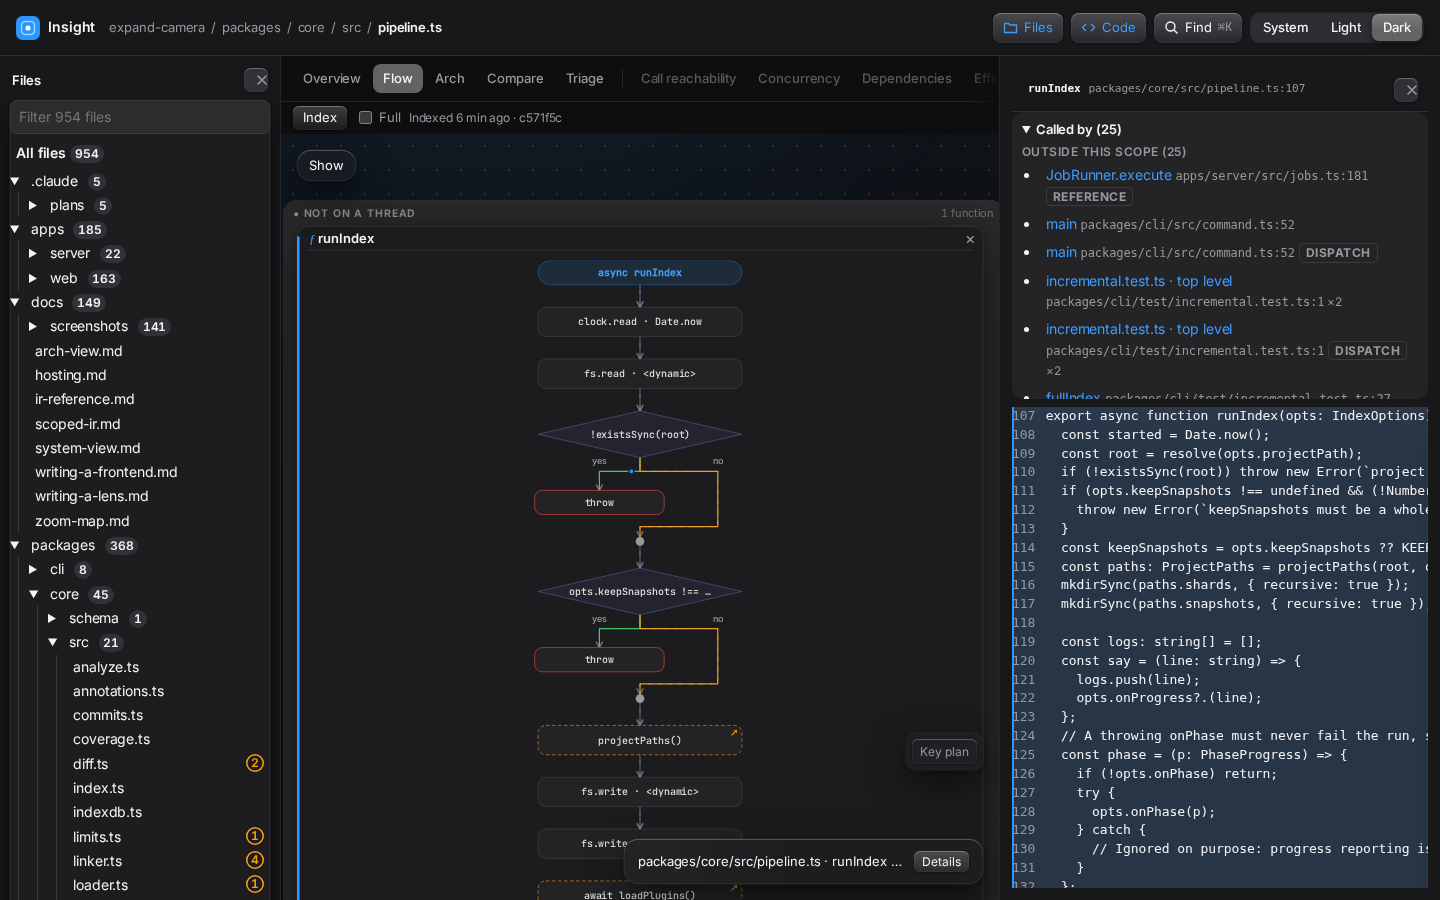
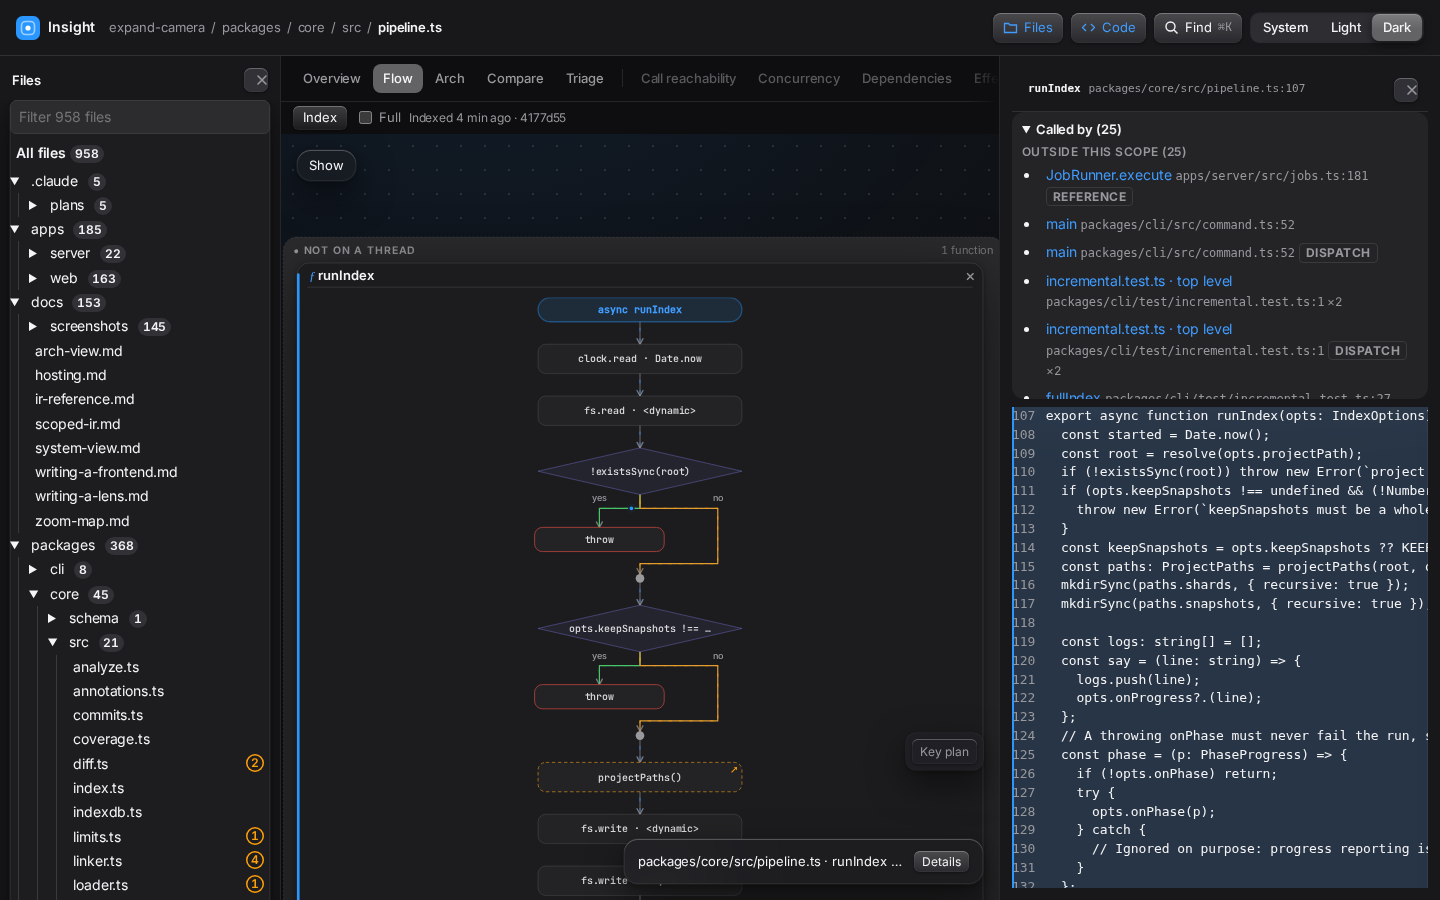
Pan the expand camera the least it can on a click
A click that opens a function's expansion moved the camera more than it
needed to. Opening a lower root card panned the first row out from under
the toolbar, and a box already in view could still move.

expandCamera (zoom/expand.ts) is the reveal for a click. The scale stays
unless the box is below a readable floor (zoomed in, at most 1.5 times)
or wider than the room (width-fit, not below the 0.5 floor, aligned
left). The camera then moves only by the overflow that brings the box
inside the room. A box taller than the room needs only its header in
view: it moves only when the header is cut off. A camera that already
shows the box is returned unchanged.

ZoomMap's revealOf uses it, with the room the stage keeps (left of the
Layers inset, below the top reserve, above the minimap and pill). The
fn= deep link and the phone sheet fit are unchanged.

Changed region(s): [[0.375, 0.28, 0.5312, 1.0], [0.1875, 0.2178, 0.7188, 0.3111], [0.3125, 0.1244, 0.4062, 0.1556]]

diff --git a/apps/web/test/expand.test.ts b/apps/web/test/expand.test.ts
@@ -13,6 +13,7 @@ import {
   refresh,
   reflow,
   detailLetter,
+  expandCamera,
   revealCamera,
   sceneCamera,
   shiftAt,
@@ -149,6 +150,60 @@ describe("revealCamera", () => {
 
   it("does not zoom a chart that is already wide enough", () => {
     expect(revealCamera({ k: 2, x: 0, y: 0 }, rect, 300, room, 120).k).toBe(2);
+  });
+});
+
+describe("expandCamera (minimal pan on click)", () => {
+  const stage: Rect = { x: 0, y: 0, w: 1000, h: 600 };
+  // The room of the tests: the stage itself, so a position is a screen position.
+  const lim = { readK: 0, fitMinK: 0.5, headH: 30 };
+  const margin = 16;
+
+  it("a box already inside the room gives an identical camera", () => {
+    const cam = { k: 0.93, x: -59.3, y: -84.5 };
+    const box = { x: 300, y: 120, w: 250, h: 200 };
+    expect(expandCamera(cam, box, stage, lim)).toEqual(cam);
+  });
+
+  it("a box partly below the room is translated by only its overflow, and k is kept", () => {
+    const box = { x: 100, y: 500, w: 200, h: 200 };
+    // The bottom sits at 700 and the room's bottom edge (less the margin) at 584: 116 up, nothing else.
+    expect(expandCamera({ k: 1, x: 0, y: 0 }, box, stage, lim)).toEqual({ k: 1, x: 0, y: -116 });
+  });
+
+  it("a tall box whose header is in view does not move", () => {
+    const box = { x: 100, y: 50, w: 300, h: 1000 };
+    expect(expandCamera({ k: 1, x: 0, y: 0 }, box, stage, lim)).toEqual({ k: 1, x: 0, y: 0 });
+  });
+
+  it("a tall box with its header cut off at the bottom moves up by the least that puts the header in view", () => {
+    const box = { x: 100, y: 700, w: 300, h: 1000 };
+    expect(expandCamera({ k: 1, x: 0, y: 0 }, box, stage, lim)).toEqual({ k: 1, x: 0, y: 600 - margin - 30 - 700 });
+  });
+
+  it("a tall box above the room is aligned with its header at the room's top, with k kept when the width fits", () => {
+    const box = { x: 100, y: -200, w: 300, h: 1000 };
+    const cam = expandCamera({ k: 1, x: 0, y: 0 }, box, stage, lim);
+    expect(cam.k).toBe(1);
+    expect(cam.y).toBe(margin + 200);
+  });
+
+  it("a box wider than the room takes the width-fit scale and is aligned left", () => {
+    const box = { x: 900, y: 50, w: 700, h: 200 };
+    const cam = expandCamera({ k: 1, x: 0, y: 0 }, box, { x: 0, y: 0, w: 400, h: 600 }, lim);
+    expect(cam.k).toBeCloseTo((400 - 2 * margin) / 700, 9);
+    expect(box.x * cam.k + cam.x).toBeCloseTo(margin, 6);
+  });
+
+  it("a box too wide even at the floor is fitted at the floor scale", () => {
+    const cam = expandCamera({ k: 1, x: 0, y: 0 }, { x: 900, y: 50, w: 1000, h: 200 }, { x: 0, y: 0, w: 400, h: 600 }, lim);
+    expect(cam.k).toBe(0.5);
+  });
+
+  it("a scale below the readable floor is raised to it, at most 1.5 times, and no lower bound applies with readK 0", () => {
+    const box = { x: 100, y: 100, w: 60, h: 40 };
+    expect(expandCamera({ k: 0.3, x: 0, y: 0 }, box, stage, { ...lim, readK: 0.6 }).k).toBeCloseTo(0.45, 9);
+    expect(expandCamera({ k: 0.3, x: 0, y: 0 }, box, stage, lim).k).toBe(0.3);
   });
 });
 

diff --git a/apps/web/src/components/zoom/ZoomMap.tsx b/apps/web/src/components/zoom/ZoomMap.tsx
@@ -7,11 +7,11 @@
 import { useEffect, useId, useLayoutEffect, useMemo, useRef, useState, type KeyboardEvent as KeyEvent, type PointerEvent as PointerEv, type ReactNode } from "react";
 import { select } from "d3-selection";
 import { zoom, zoomIdentity, type D3ZoomEvent, type ZoomBehavior, type ZoomTransform } from "d3-zoom";
-import { CHART_FIT_MAX_K, MORE_SUFFIX, ZOOM_SIZE, fitCamera, fitChartCamera, visibleWorld, type Camera, type FlowNode, type FlowSpan, type FunctionFlow, type PlacedItem, type Rect } from "@insight/flow";
+import { CHART_FIT_MAX_K, CHART_HEAD, MORE_SUFFIX, ZOOM_SIZE, fitCamera, fitChartCamera, visibleWorld, type Camera, type FlowNode, type FlowSpan, type FunctionFlow, type PlacedItem, type Rect } from "@insight/flow";
 import { nameOfId, runtimeLabel, stepRuntime } from "../../flowTargets";
 import { hrefView } from "../../router";
 import { CHART_MIN_PX } from "../../zoom/chart";
-import { anchoredTo, isInPlace, calloutOf, closeExpansion, footprintOf, isNested, NARROW_VIEW_PX, openExpansion, ownerOf, refresh, revealCamera, rootBoxOf, sameFootprint, sceneCamera, setInline, SLOT_PAD, shiftAt, type Expansion, type ExpandAnchor } from "../../zoom/expand";
+import { anchoredTo, expandCamera, isInPlace, calloutOf, closeExpansion, footprintOf, isNested, NARROW_VIEW_PX, openExpansion, ownerOf, REVEAL_MIN_K, refresh, revealCamera, rootBoxOf, sameFootprint, sceneCamera, setInline, SLOT_PAD, shiftAt, type Expansion, type ExpandAnchor } from "../../zoom/expand";
 import { calloutD } from "../../zoom/connector";
 import { popDelay } from "../../zoom/pop";
 import { displayName } from "../../zoom/names";
@@ -577,12 +577,17 @@ export function ZoomMap({ id, source, scope, fn, detail, charts, onSelect, onFoc
     cam.to(target, !animate);
   };
 
-  /** The camera that shows an expansion from `from`, the least it can move (see revealCamera). */
+  /**
+   * The camera that shows an expansion from `from`, the least it can move (see expandCamera). The room is the stage's room
+   * in the camera's own units: left of the Layers inset and below the top reserve, above the minimap and the status pill.
+   */
   const revealOf = (from: Camera, e: Expansion, minPx = CHART_MIN_PX): Camera => {
-    // The reveal works in the room's own coordinates (from the left and top insets), so the insets are taken off and put back.
-    const left = leftRef.current;
-    const c = revealCamera({ ...from, x: from.x - left, y: from.y - TOP_RESERVE }, { x: e.x, y: e.y, w: e.w, h: e.h }, e.chart.width, roomOf(), minPx);
-    return { ...c, x: c.x + left, y: c.y + TOP_RESERVE };
+    const room = roomOf();
+    return expandCamera(from, { x: e.x, y: e.y, w: e.w, h: e.h }, { x: leftRef.current, y: TOP_RESERVE, w: room.width, h: room.height }, {
+      readK: minPx / Math.max(e.chart.width, 1),
+      fitMinK: REVEAL_MIN_K,
+      headH: CHART_HEAD,
+    });
   };
 
   /** The expansions as the build places them: the boxes they hang from, in the build's layout, placed on the current view. */

diff --git a/apps/web/src/zoom/expand.ts b/apps/web/src/zoom/expand.ts
@@ -407,6 +407,44 @@ export function revealCamera(cam: Camera, rect: Rect, chartW: number, room: { wi
   return { k, x, y };
 }
 
+/** What a click-to-expand reveal may change: the scale a readable chart needs, the lowest scale a width-fit takes, and the header height kept in view. */
+export interface ExpandLimits {
+  readK: number;
+  fitMinK: number;
+  headH: number;
+}
+
+/**
+ * The camera after a click opens an expansion `box` (world units) in `room` (the stage's room, in the camera's own units).
+ * The least change: the scale stays, unless the box is below `readK` (zoomed in, at most 1.5 times) or wider than the room
+ * (width-fit, not below `fitMinK`, aligned left). The camera then moves the least that brings the box inside the room. A box
+ * taller than the room needs only its header in view: the camera moves only when the header is cut off, and then the least
+ * that brings the header in (its top to the room's top when it is above). A camera that already shows the box is returned
+ * unchanged.
+ */
+export function expandCamera(cam: Camera, box: Rect, room: Rect, lim: ExpandLimits): Camera {
+  let k = cam.k;
+  if (k < lim.readK) k = Math.min(lim.readK, cam.k * CHART_FIT_MAX_K);
+  const fitK = (room.w - 2 * REVEAL_MARGIN) / Math.max(box.w, 1);
+  if (fitK < k) k = Math.min(k, Math.max(lim.fitMinK, fitK));
+  // Zoomed about the box's top-left corner, which stays where it was.
+  let x = cam.x + box.x * (cam.k - k);
+  let y = cam.y + box.y * (cam.k - k);
+  // The box's place on screen, relative to the room's top-left.
+  const left = box.x * k + x - room.x;
+  const top = box.y * k + y - room.y;
+  x += shift(left, box.w * k, room.w);
+  const tallH = room.h - 2 * REVEAL_MARGIN;
+  if (box.h * k > tallH) {
+    const headPx = Math.min(lim.headH * k, tallH);
+    if (top < REVEAL_MARGIN) y += REVEAL_MARGIN - top;
+    else if (top + headPx > room.h - REVEAL_MARGIN) y += room.h - REVEAL_MARGIN - headPx - top;
+  } else {
+    y += shift(top, box.h * k, room.h);
+  }
+  return { k, x, y };
+}
+
 /** A narrow viewport (a phone) shows the first column at least this large, so its text stays readable. */
 export const READABLE_COLUMN_K = 0.6;
 /** The viewport width at or below which the whole-project view favours one readable column over the whole width. */
